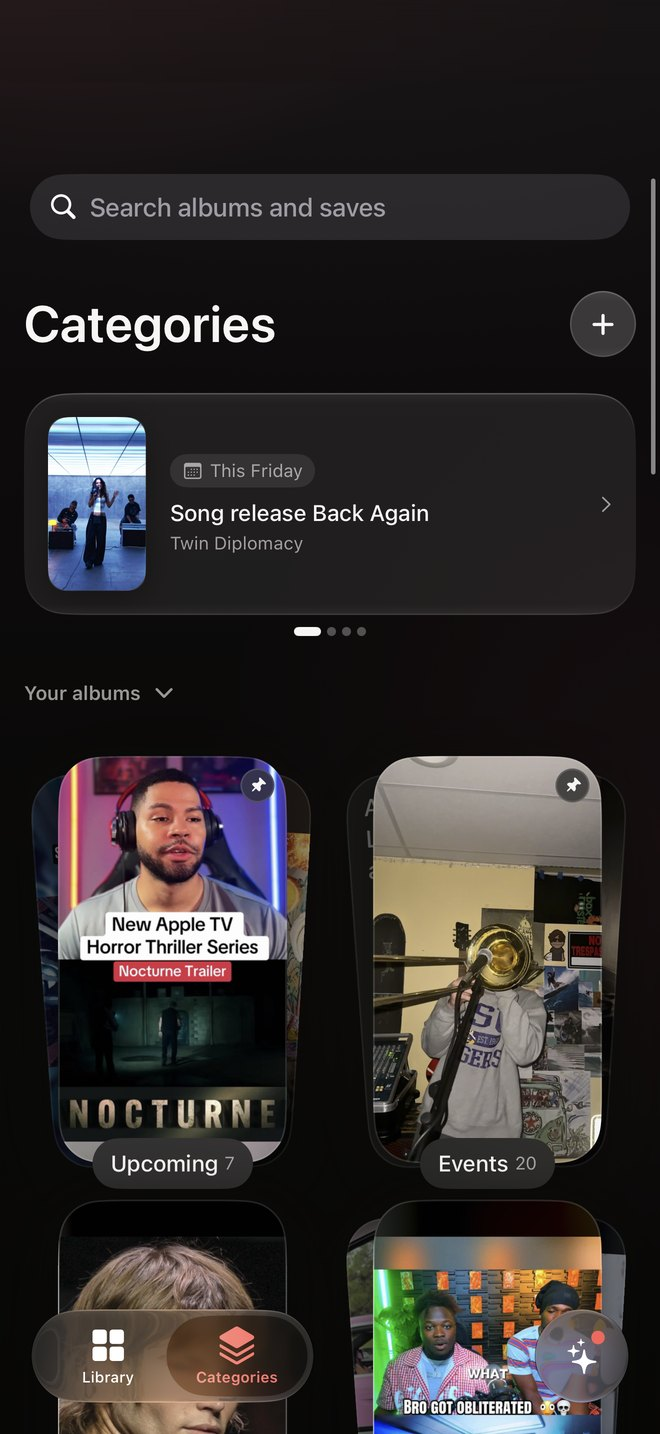
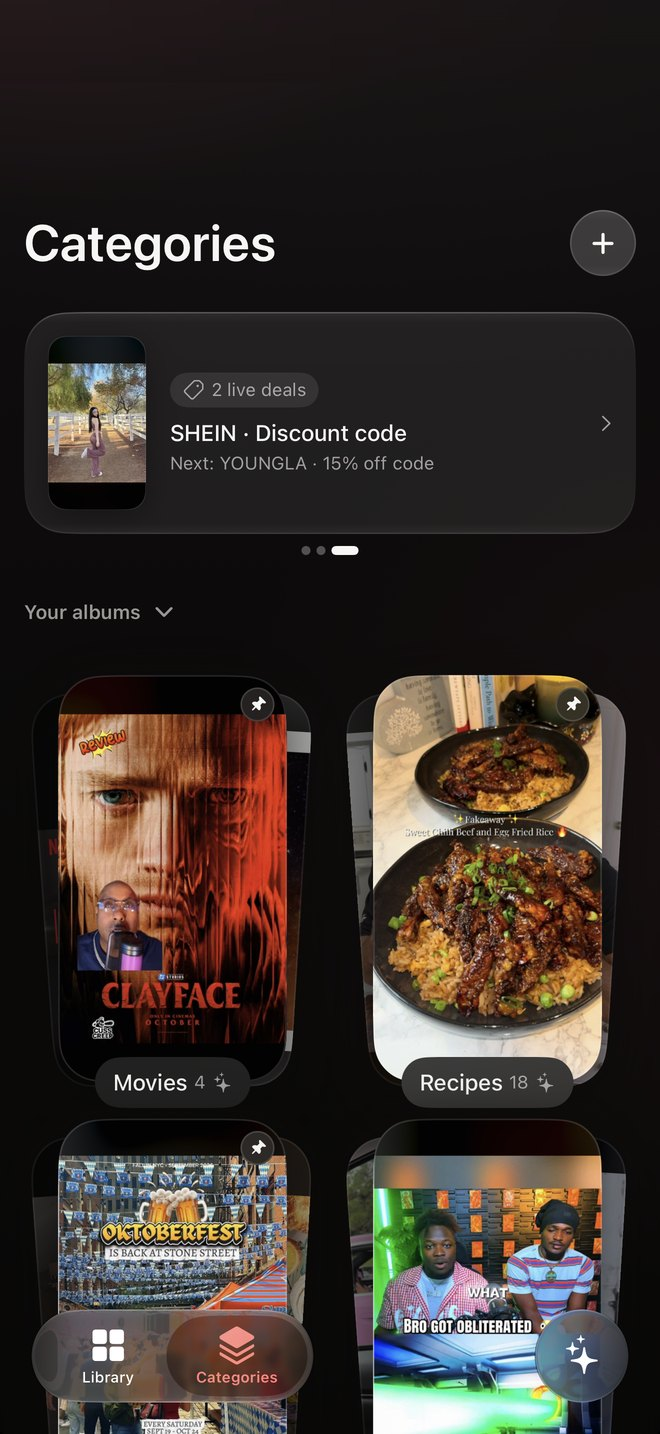
Site: newer Categories screenshot (Movies, Recipes, deals) for step 2 and the real Ask screen for step 3
Claude-Session: https://claude.ai/code/session_01CoJH9L2rTKwiawJYeYaAha

diff --git a/index.html b/index.html
@@ -624,8 +624,8 @@
       <h2 class="reveal">How it works</h2>
             <div class="trio">
       <figure class="reveal"><div class="phone mini"><div class="screen"><div class="app"><div class="ui still shareui"><div class="sharevid"></div><div class="sb"><b>9:41</b><span><svg viewBox="0 0 20 12" width="19" height="12" fill="currentColor" aria-hidden="true"><rect x="0" y="8" width="3.2" height="4" rx="1"/><rect x="5.4" y="5.5" width="3.2" height="6.5" rx="1"/><rect x="10.8" y="3" width="3.2" height="9" rx="1"/><rect x="16.2" y="0" width="3.2" height="12" rx="1"/></svg><svg viewBox="0 0 18 13" width="17" height="12" fill="currentColor" aria-hidden="true"><path d="M9 2.2c2.6 0 5 1 6.8 2.7l1.3-1.4C14.9 1.4 12 .2 9 .2S3.1 1.4.9 3.5l1.3 1.4C4 3.2 6.4 2.2 9 2.2zm0 4c1.5 0 2.9.6 4 1.5l1.3-1.4A7.9 7.9 0 0 0 9 4.2c-2 0-3.9.8-5.3 2.1L5 7.7c1.1-.9 2.5-1.5 4-1.5zm0 4c.6 0 1.1.2 1.5.6L9 12.4l-1.5-1.6c.4-.4.9-.6 1.5-.6z"/></svg><i class="batt"><i></i></i></span></div><div class="saved" aria-hidden="true"><i></i>Saved to Rook</div><div class="sheet"><div class="grab"></div><div class="who2"><i></i><div><b>Weeknight Beef Pho</b><span>tiktok.com</span></div></div><div class="apps"><span><i style="background:#34C759"></i>Messages</span><span class="rk"><i></i>Rook</span><span><i style="background:#0A84FF"></i>Mail</span><span><i style="background:#FFD60A"></i>Notes</span></div><div class="rows"><p>Copy Link</p><p>Add to Favorites</p></div></div></div></div></div></div><figcaption><span class="step">1</span><h3>Share it to Rook</h3><p>Tap Share on any TikTok, Reel or YouTube video and pick Rook.</p></figcaption></figure>
-      <figure class="reveal"><div class="phone mini"><div class="screen"><div class="app shotapp"><img class="shot" src="img/screens/categories.jpg" alt="Rook Categories: a This Friday card for a song release, and albums sorted on their own" loading="lazy" width="660" height="1434"><div class="ui still shotbar" aria-hidden="true"><div class="sb"><b>9:41</b><span><svg viewBox="0 0 20 12" width="19" height="12" fill="currentColor" aria-hidden="true"><rect x="0" y="8" width="3.2" height="4" rx="1"/><rect x="5.4" y="5.5" width="3.2" height="6.5" rx="1"/><rect x="10.8" y="3" width="3.2" height="9" rx="1"/><rect x="16.2" y="0" width="3.2" height="12" rx="1"/></svg><svg viewBox="0 0 18 13" width="17" height="12" fill="currentColor" aria-hidden="true"><path d="M9 2.2c2.6 0 5 1 6.8 2.7l1.3-1.4C14.9 1.4 12 .2 9 .2S3.1 1.4.9 3.5l1.3 1.4C4 3.2 6.4 2.2 9 2.2zm0 4c1.5 0 2.9.6 4 1.5l1.3-1.4A7.9 7.9 0 0 0 9 4.2c-2 0-3.9.8-5.3 2.1L5 7.7c1.1-.9 2.5-1.5 4-1.5zm0 4c.6 0 1.1.2 1.5.6L9 12.4l-1.5-1.6c.4-.4.9-.6 1.5-.6z"/></svg><i class="batt"><i></i></i></span></div></div></div></div></div><figcaption><span class="step">2</span><h3>It organizes itself</h3><p>Saves sort into albums on their own, and anything with a date shows up before it happens.</p></figcaption></figure>
-      <figure class="reveal"><div class="phone mini"><div class="screen"><div class="app askscreen"><div class="ui still"><div class="sb"><b>9:41</b><span><svg viewBox="0 0 20 12" width="19" height="12" fill="currentColor" aria-hidden="true"><rect x="0" y="8" width="3.2" height="4" rx="1"/><rect x="5.4" y="5.5" width="3.2" height="6.5" rx="1"/><rect x="10.8" y="3" width="3.2" height="9" rx="1"/><rect x="16.2" y="0" width="3.2" height="12" rx="1"/></svg><svg viewBox="0 0 18 13" width="17" height="12" fill="currentColor" aria-hidden="true"><path d="M9 2.2c2.6 0 5 1 6.8 2.7l1.3-1.4C14.9 1.4 12 .2 9 .2S3.1 1.4.9 3.5l1.3 1.4C4 3.2 6.4 2.2 9 2.2zm0 4c1.5 0 2.9.6 4 1.5l1.3-1.4A7.9 7.9 0 0 0 9 4.2c-2 0-3.9.8-5.3 2.1L5 7.7c1.1-.9 2.5-1.5 4-1.5zm0 4c.6 0 1.1.2 1.5.6L9 12.4l-1.5-1.6c.4-.4.9-.6 1.5-.6z"/></svg><i class="batt"><i></i></i></span></div><p class="me">at the store, what do I need for the pho?</p><p class="ans">From <b>Weeknight Beef Pho</b> by kitchenbyleo, for 4 bowls:</p><ul class="group ask"><li><i></i><span>Beef broth</span><em>8 cups</em></li><li><i></i><span>Rice noodles</span><em>14 oz</em></li><li><i></i><span>Sirloin</span><em>½ lb</em></li><li><i></i><span>Star anise</span><em>3</em></li><li><i></i><span>Thai basil, lime</span><em>1 each</em></li></ul><p class="me">anything coming up this week?</p><p class="ans">Two things from your saves:</p><div class="acard"><span class="cv" style="background:#111 url(img/tower.jpg) center/cover"></span><div><b>Seafood Tower Thursdays</b><em>Last one Thursday · 6 PM</em><span class="l">Book ahead, walk-ins wait an hour</span></div></div><div class="acard"><span class="cv" style="background:#111 url(img/garden.jpg) center/cover"></span><div><b>Free Garden Day</b><em>This Sunday · 10 AM</em><span class="l">Free tickets drop Friday at 9 AM</span></div></div><p class="ans">Want reminders for both?</p><div class="composer">Ask about your saves</div></div></div></div></div><figcaption><span class="step">3</span><h3>Ask anything. Miss nothing.</h3><p>"What do I need for that pho?" gets a shopping list. "Anything coming up?" gets your plans.</p></figcaption></figure>
+      <figure class="reveal"><div class="phone mini"><div class="screen"><div class="app shotapp"><img class="shot" src="img/screens/categories.jpg" alt="Rook Categories: live deals, and albums like Movies and Recipes filled on their own" loading="lazy" width="660" height="1434"><div class="ui still shotbar" aria-hidden="true"><div class="sb"><b>9:41</b><span><svg viewBox="0 0 20 12" width="19" height="12" fill="currentColor" aria-hidden="true"><rect x="0" y="8" width="3.2" height="4" rx="1"/><rect x="5.4" y="5.5" width="3.2" height="6.5" rx="1"/><rect x="10.8" y="3" width="3.2" height="9" rx="1"/><rect x="16.2" y="0" width="3.2" height="12" rx="1"/></svg><svg viewBox="0 0 18 13" width="17" height="12" fill="currentColor" aria-hidden="true"><path d="M9 2.2c2.6 0 5 1 6.8 2.7l1.3-1.4C14.9 1.4 12 .2 9 .2S3.1 1.4.9 3.5l1.3 1.4C4 3.2 6.4 2.2 9 2.2zm0 4c1.5 0 2.9.6 4 1.5l1.3-1.4A7.9 7.9 0 0 0 9 4.2c-2 0-3.9.8-5.3 2.1L5 7.7c1.1-.9 2.5-1.5 4-1.5zm0 4c.6 0 1.1.2 1.5.6L9 12.4l-1.5-1.6c.4-.4.9-.6 1.5-.6z"/></svg><i class="batt"><i></i></i></span></div></div></div></div></div><figcaption><span class="step">2</span><h3>It organizes itself</h3><p>Saves sort into albums like Recipes and Movies on their own, and codes and dates get pulled out for you.</p></figcaption></figure>
+      <figure class="reveal"><div class="phone mini"><div class="screen"><div class="app shotapp"><img class="shot" src="img/screens/ask.jpg" alt="Rook Ask: What are you looking for? with suggestions like Plan a night out: dinner then drinks" loading="lazy" width="660" height="1434"><div class="ui still shotbar" aria-hidden="true"><div class="sb"><b>9:41</b><span><svg viewBox="0 0 20 12" width="19" height="12" fill="currentColor" aria-hidden="true"><rect x="0" y="8" width="3.2" height="4" rx="1"/><rect x="5.4" y="5.5" width="3.2" height="6.5" rx="1"/><rect x="10.8" y="3" width="3.2" height="9" rx="1"/><rect x="16.2" y="0" width="3.2" height="12" rx="1"/></svg><svg viewBox="0 0 18 13" width="17" height="12" fill="currentColor" aria-hidden="true"><path d="M9 2.2c2.6 0 5 1 6.8 2.7l1.3-1.4C14.9 1.4 12 .2 9 .2S3.1 1.4.9 3.5l1.3 1.4C4 3.2 6.4 2.2 9 2.2zm0 4c1.5 0 2.9.6 4 1.5l1.3-1.4A7.9 7.9 0 0 0 9 4.2c-2 0-3.9.8-5.3 2.1L5 7.7c1.1-.9 2.5-1.5 4-1.5zm0 4c.6 0 1.1.2 1.5.6L9 12.4l-1.5-1.6c.4-.4.9-.6 1.5-.6z"/></svg><i class="batt"><i></i></i></span></div></div></div></div></div><figcaption><span class="step">3</span><h3>Ask anything. Miss nothing.</h3><p>Plan a night out from your saved spots, build a shopping list, or find that one video.</p></figcaption></figure>
       </div>
     </section>
 
